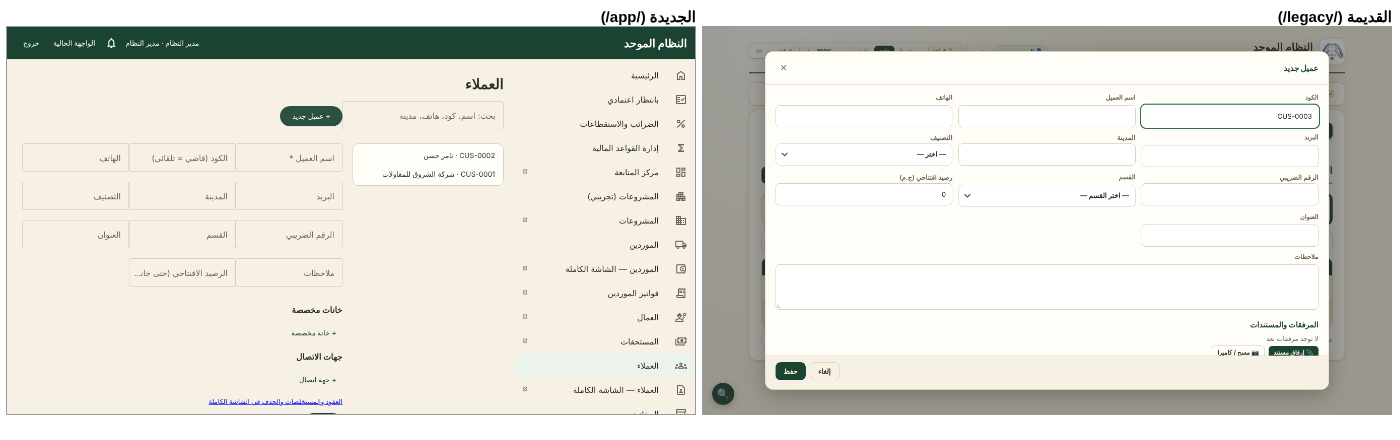
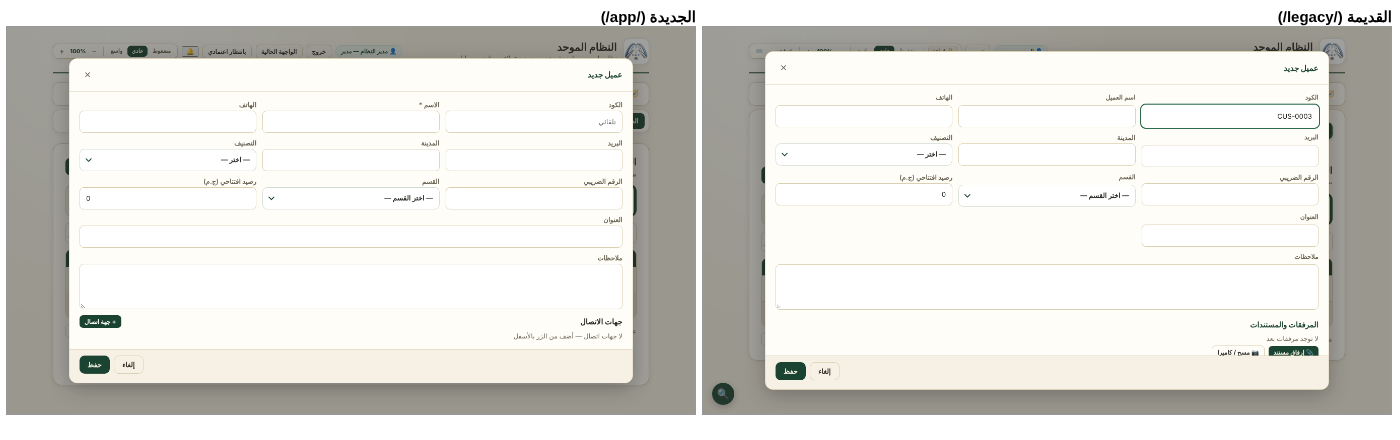
docs(phase6): DEC-0093 (a) done — visual parity results, remaining differences, visual UAT
- PARTIES_VISUAL_PARITY: V1-V12 after the change, remaining differences R1-R7 classified
- acceptance: dimension 2 Amber until the visual UAT; UAT §ز (G1-G11, incl. the write scenarios again)
- app-baseline + side-by-side shots regenerated; traceability (phase64); CI baseline requested

Claude-Session: https://claude.ai/code/session_01Pf8Qasq8ArtReZuJa3D7WX

diff --git a/docs/modules/PARTIES_VISUAL_PARITY.md b/docs/modules/PARTIES_VISUAL_PARITY.md
@@ -1,7 +1,7 @@
 # مقارنة الشكل: الواجهة القديمة ↔ الجديدة — الموردين والعملاء (خطة v1.4.5 — `04` §4.3)
 
 > **السبب:** ملاحظة المستخدم في الـ UAT (2026-11-20): «شكل الواجهة الجديدة مختلف عن القديمة». الخطة بتطلب «Angular screens with visual parity» (`02` Phase 6)، وبتقول **ماينفعش شكل Angular Material الافتراضي يحل محل الواجهة الحالية من غير موافقة** (`04` §4.2)، وكل فرق يتسجّل ويتصنّف، والفرق اللي مش متوافق عليه يتصلّح قبل القبول (`04` §4.3).
-> **المقارنة دي ماتعملتش قبل الـ UAT. ده تقصير، واتسجّل هنا.**
+> **المقارنة دي ماتعملتش قبل الـ UAT. ده تقصير، واتسجّل هنا.** **اتنفّذ (أ) تطابق كامل: §2–§4.**
 > **اللقطات:** نفس المقاس (1366×768) وبيانات مُركّبة، القديمة يمين والجديدة شمال: `docs/reports/v1.4.5/phase6-visual/` (`suppliers-list`، `suppliers-form`، `customers-list`، `customers-form`).
 
 ## 1. الفروق
@@ -35,14 +35,51 @@
 | V11 | الخطوط والألوان من نفس الرموز (`DESIGN_TOKENS.md`) | نفس الرموز (المرحلة 4) | متطابق ✅ |
 | V12 | خانة التاريخ: `mm/dd/yyyy` بأداة تقويم (حسب المتصفح) | نص `YYYY-MM-DD` (DEC-0092) | ده **خالف القديمة**. يرجع زي القديمة بالظبط |
 
-## 2. الخيارات (DEC-0093)
+## 2. القرار والتنفيذ — DEC-0093 (أ) تطابق كامل (2026-11-20)
+**الطريقة:** بدل تقليد الشكل، الشاشات الجديدة **بتلبس CSS الواجهة القديمة نفسه**:
+- `tools/ui/build-legacy-skin.js` بياخد `style.css` و`ledger.css` والـ CSS اللي `app.js` بيحقنه، ويحصرهم في `.lx-root` و`.lx` عشان مايأثروش على باقي صفحات Angular. وبيطلّع كمان أقسام التنقل من `modules.js`.
+- المخرجات مولَّدة (`frontend/src/legacy-skin.css` و`frontend/src/app/core/legacy-nav.ts`)، ومتشيّكة في الـ CI. **أي تعديل في شكل القديمة بيتنقل للجديدة بإعادة التوليد.**
+- القوالب بنفس عناصر الواجهة القديمة وكلاساتها وترتيبها (`renderSuppliersPage` و`renderInfoTab` و`openAddSupplierModal` و`renderClientsCustomersPage` و`openCustomerModal`).
+
+| # | الحالة بعد التنفيذ |
+|---|---|
+| V1 | ✅ نفس الترويسة (اللوجو، والاسم، والوصف، وشارة المستخدم، وأدوات الكثافة والتكبير، **بنفس مفاتيح التخزين**، يعني الإعداد واحد في الواجهتين) |
+| V2 | ✅ نفس صف الأقسام وصف صفحات القسم وأسمائهم وترتيبهم (من `modules.js` نفسه) |
+| V3 | ✅ نفس الكروت والخلفية والألوان |
+| V4 | ✅ نفس اللوحة (البحث، والفلترين، والعدد، و«+ إضافة مورد جديد»، والتصدير، والقايمة). **الرصيد** مكانه عدد الفواتير، والفلتر والترتيب بالرصيد معطّلين بإشارة للشاشة الكاملة (S3، قرار الرصيد المالي مفتوح) |
+| V5 | ✅ «دفتر — اختر مورداً…» |
+| V6 | ✅ نفس النافذة: عمود واحد، والهاتف والبريد والعنوان والبنك وIBAN مخفيين لحد زرار «+ إضافة خانة…»، والخانة المخصصة باسم من نافذة صغيرة. **المرفقات** بعد الإضافة من الشاشة الكاملة |
+| V7 | ✅ نفس رأس المورد والتبويبات وتبويب «البيانات». الفواتير والدفعات وكشف الحساب والتصدير بيفتحوا الشاشة الكاملة (S7) |
+| V8 | ✅ نفس العنوان والوصف والأزرار والكروت الست والفلاتر. الأعداد من السيرفر بنفس قواعد الدوال القديمة (`tests-merge/phase64.js`) |
+| V9 | ✅ نفس الجدول بالـ 12 عمود، وعمود الملاحظات (نفس `customerNotesIssues`)، والصفحات (20 صف). «عرض» و«حذف» بيفتحوا الشاشة الكاملة |
+| V10 | ✅ نفس النافذة (عمودين، والتصنيف والقسم قوايم اختيار ومعاهم «➕ قسم جديد…»، وجهات الاتصال آخر النافذة زي القديمة) |
+| V11 | ✅ |
+| V12 | ✅ رجعت `type="date"` زي القديمة |
+
+## 3. الفروق اللي فضلت (بتصنيفها)
+| # | الفرق | التصنيف |
+|---|---|---|
+| R1 | قسم الموردون بيعرض صف صفحاته، والقديمة بتعرض شريط أدوات الدفتر وزرار «◀ الموردون» (لوحات الأقسام ماتنقلتش). الأقسام اللي مافيهاش صفحة جديدة بتفتح لوحتها في القديمة | **فرق تقني مقبول** لحد نقل اللوحات |
+| R2 | الترويسة فيها «بانتظار اعتمادي» والجرس و«الواجهة الحالية»، وصفحات الضرائب والقواعد المالية في «الإعدادات» والمشروعات التجريبية في «العملاء والمشاريع» | **تحسين** (صفحات جديدة مالهاش مقابل في القديمة) |
+| R3 | مش موجود: «🔒 قراءة» و«✓ فحص» و«⌨» في الترويسة، وزرار البحث العائم 🔍 | **فرق تقني مقبول**: أدوات بتشتغل على بيانات المتصفح في القديمة |
+| R4 | رصيد المورد، وفلتره، وترتيبه | **متأجل بقرار** (S3، وقاعدة الرصيد المالية مفتوحة) |
+| R5 | كود العميل الجديد بيظهر «تلقائي» بدل الرقم الجاي، وبيتولّد عند الحفظ بنفس الصيغة | **فرق تقني مقبول** |
+| R6 | الخانات المخصصة للعميل في القديمة **معرّفة من الإعدادات** (بتظهر كلها حتى الفاضية)، وهنا بتظهر الخانات اللي ليها قيمة بس، وبتتعدّل قيمتها | **فرق مقبول مؤقتًا**. تعريف الخانات بيتنقل مع الإعدادات |
+| R7 | المرفقات، والتفاصيل، والحذف، والتصدير | **متأجل بقرار** (S6، S7، S8، C5)، وبيفتح الشاشة الكاملة |
+
+## 4. الدليل
+- **لقطات جنب بعض بعد التنفيذ:** `docs/reports/v1.4.5/phase6-visual/`.
+- **خط الأساس:** `docs/discovery/app-baseline/app/` و`app-baseline-ci/app/`.
+- **الاختبارات:** `tests-web/app-e2e.js` [6c] (الشكل والسلوك) 85/85، و`tests-merge/phase64.js` (أعداد الجدول = الدوال القديمة، 3 أوضاع).
+
+## 5. الخيارات اللي اتعرضت (DEC-0093) — للتاريخ
 | الخيار | المعنى | التقدير |
 |---|---|---|
 | **(أ) تطابق كامل** (مقترح، وده اللي الخطة طالباه) | الإطار (V1–V3) يتبني زي القديمة: الترويسة والتبويبات والكروت. والشاشتين زي القديمة بالظبط: لوحة الموردين، وجدول العملاء بالكروت والفلاتر والصفحات، والإضافة والتعديل في نوافذ منبثقة بنفس الحقول والترتيب. **العناصر المرتبطة بموديولات متأجلة** (الرصيد وفلتره، والتصدير، والحذف، وتبويبات الفواتير) **مكانها يفضل ظاهر** وبيفتح الشاشة الكاملة القديمة، لحد نقل موديولاتها. والمقارنة البصرية تبقى **قديم ↔ جديد** مش جديد ↔ جديد بس | جلستين تلاتة هنا. وبعدها UAT تاني لشكل الشاشتين بس، مش لازم بروفة نقل تاني (البيانات والـ API ماتغيّروش) |
 | (ب) تطابق الشاشتين بس، والإطار بعدين | V4–V12 دلوقتي، والإطار (V1–V3) في مرحلة لوحده قبل الموديول الجاي | أقل بجلسة، بس الإطار هيفضل مختلف لحد وقتها |
 | (ج) الشكل الجديد يتعتمد كتحسين | القبول بالشكل الحالي (موافقة صريحة على «تحسين معتمد»). **مش مقترح**: الخطة بتمنع ده من غير سبب، والمستخدمين متعودين على القديمة | — |
 
-## 3. تأثيرها على القبول
+## 6. تأثيرها على القبول (قبل التنفيذ)
 - **بُعد «تطابق الشكل والوظايف» (2) بقى Red** لحد التنفيذ (`PARTIES_ACCEPTANCE.md` §7). والـ Red بيمنع القبول.
 - **البروفة (P6-D) ناجحة ومش محتاجة تتعاد**: التغيير في الواجهة بس، والـ API والجداول والنقل زي ما هم.
 - **الـ UAT:** نتايجه الحالية بتتسجّل كما هي. وبعد التنفيذ بيتعمل **UAT للشكل** على الشاشتين (سيناريوهات مقارنة قديم ↔ جديد).

diff --git a/docs/discovery/TRACEABILITY_MATRIX.md b/docs/discovery/TRACEABILITY_MATRIX.md
@@ -1,7 +1,7 @@
 # مصفوفة التتبّع (خطة v1.4.5 — المرحلة 3)
 
 > **مولَّد** بـ `node tools/discovery/build-traceability.js` من `requirements-registry.json` + ملفات الاختبار. ماتعدّلش الملف باليد.
-> **الاختبارات** بتتلاقى بالبحث عن اسم الدالة أو الصفحة في `tests-merge/` و`tests-web/` و`tools/formulas/` و`server/test/` (97 ملف). ده **دليل إن الاختبار بيلمس العنصر**، مش إثبات إنه بيغطي كل حالاته.
+> **الاختبارات** بتتلاقى بالبحث عن اسم الدالة أو الصفحة في `tests-merge/` و`tests-web/` و`tools/formulas/` و`server/test/` (98 ملف). ده **دليل إن الاختبار بيلمس العنصر**، مش إثبات إنه بيغطي كل حالاته.
 > **الحالات** (`02` §20): Implemented ≠ Verified ≠ Accepted. **مفيش حاجة هنا Accepted**: القبول بيكون لكل موديول ببوابة.
 > **الأولويات مقترحة.**
 
@@ -139,9 +139,9 @@
 ## 5. المصفوفة الكاملة (LEG)
 | ID | النوع | الموديول | العنصر | النظام القديم | المستهدف | الاختبارات | الحالة | قرارات بتمنعه |
 |---|---|---|---|---|---|---|---|---|
-| LEG-0001 | page | مركز المتابعة | صفحة «مركز المتابعة» (dashboard) | renderer/modules/hr/pages-dashboard.js:28 | legacy /legacy/ | phase16.js، phase20.js، phase38.js، phase61.js، phase14.js، phase27.js (+1) | Verified (باختبار) | — |
+| LEG-0001 | page | مركز المتابعة | صفحة «مركز المتابعة» (dashboard) | renderer/modules/hr/pages-dashboard.js:28 | legacy /legacy/ | phase16.js، phase20.js، phase38.js، phase61.js، phase14.js، phase27.js (+2) | Verified (باختبار) | — |
 | LEG-0002 | page | مهامي | صفحة «مهامي» (tasks.my) | renderer/modules/clients/pages-tasks.js:38 | legacy /legacy/ | phase61.js | Verified (باختبار) | — |
-| LEG-0003 | page | الموارد البشرية | صفحة «لوحات الموارد البشرية» (hrHome) | renderer/core/boards.js:172 | legacy /legacy/ | phase22.js | Verified (باختبار) | DEC-0045 (B-45)، DEC-0046 (B-46)، DEC-0047 (B-47)، DEC-0073 (B-73)، DEC-0074 (B-74)، DEC-0076 (B-76)، DEC-0042 (B-42) |
+| LEG-0003 | page | الموارد البشرية | صفحة «لوحات الموارد البشرية» (hrHome) | renderer/core/boards.js:172 | legacy /legacy/ | phase22.js، app-e2e.js | Verified (باختبار) | DEC-0045 (B-45)، DEC-0046 (B-46)، DEC-0047 (B-47)، DEC-0073 (B-73)، DEC-0074 (B-74)، DEC-0076 (B-76)، DEC-0042 (B-42) |
 | LEG-0004 | page | الموارد البشرية | صفحة «الموظفين» (employees) | renderer/modules/hr/pages-employees.js:77 | legacy /legacy/ | phase22.js، phase26.js، phase27.js، phase28.js، phase29.js، phase30.js (+30) | Verified (باختبار) | DEC-0045 (B-45)، DEC-0046 (B-46)، DEC-0047 (B-47)، DEC-0073 (B-73)، DEC-0074 (B-74)، DEC-0076 (B-76)، DEC-0042 (B-42) |
 | LEG-0005 | page | الموارد البشرية | صفحة «المشرفون» (supervisors) | renderer/modules/hr/pages-supervisors.js:12 | legacy /legacy/ | phase27.js، phase42.js، phase43.js، phase49.js، phase50.js، phase53.js (+13) | Verified (باختبار) | DEC-0045 (B-45)، DEC-0046 (B-46)، DEC-0047 (B-47)، DEC-0073 (B-73)، DEC-0074 (B-74)، DEC-0076 (B-76)، DEC-0042 (B-42) |
 | LEG-0006 | page | الموارد البشرية | صفحة «العمال» (workers) | renderer/modules/hr/pages-workers.js:29 | legacy /legacy/ | phase24.js، phase26.js، phase27.js، phase28.js، phase29.js، phase30.js (+27) | Verified (باختبار) | DEC-0045 (B-45)، DEC-0046 (B-46)، DEC-0047 (B-47)، DEC-0073 (B-73)، DEC-0074 (B-74)، DEC-0076 (B-76)، DEC-0042 (B-42) |
@@ -152,7 +152,7 @@
 | LEG-0011 | page | الموارد البشرية | صفحة «الإجازات» (leaves) | renderer/modules/hr/pages-leaves.js:48 | legacy /legacy/ | phase41.js، phase13.js، phase30.js، phase31.js، phase33.js، phase36.js (+5) | Verified (باختبار) | DEC-0045 (B-45)، DEC-0046 (B-46)، DEC-0047 (B-47)، DEC-0073 (B-73)، DEC-0074 (B-74)، DEC-0076 (B-76)، DEC-0042 (B-42) |
 | LEG-0012 | page | الموارد البشرية | صفحة «تقييم الأداء» (performance) | renderer/modules/hr/pages-ops.js:540 | legacy /legacy/ | phase61.js | Verified (باختبار) | DEC-0045 (B-45)، DEC-0046 (B-46)، DEC-0047 (B-47)، DEC-0073 (B-73)، DEC-0074 (B-74)، DEC-0076 (B-76)، DEC-0042 (B-42) |
 | LEG-0013 | page | العملاء والمشاريع | صفحة «العملاء» (clients.customers) | renderer/modules/clients/pages-customers.js:14 | angular /customers | phase2.js، phase5.js، phase7.js، phase15.js، phase19.js، phase46.js (+7) | Implemented (اتنقل) | DEC-0029 (B-29)، DEC-0035 (B-35) |
-| LEG-0014 | page | العملاء والمشاريع | صفحة «المشاريع» (projects) | renderer/modules/hr/pages-projects.js:60 | angular /projects | phase2.js، phase3.js، phase4.js، phase15.js، phase17.js، phase18.js (+40) | Implemented (اتنقل) | DEC-0029 (B-29)، DEC-0035 (B-35) |
+| LEG-0014 | page | العملاء والمشاريع | صفحة «المشاريع» (projects) | renderer/modules/hr/pages-projects.js:60 | angular /projects | phase2.js، phase3.js، phase4.js، phase15.js، phase17.js، phase18.js (+41) | Implemented (اتنقل) | DEC-0029 (B-29)، DEC-0035 (B-35) |
 | LEG-0015 | page | العملاء والمشاريع | صفحة «أعمال الحصر» (clients.workSurveys) | renderer/modules/clients/pages-work-surveys.js:74 | legacy /legacy/ | phase9.js | Verified (باختبار) | DEC-0029 (B-29)، DEC-0035 (B-35) |
 | LEG-0016 | page | العملاء والمشاريع | صفحة «المقايسات» (clients.boqs) | renderer/modules/clients/pages-boqs.js:45 | legacy /legacy/ | phase2.js، phase9.js | Verified (باختبار) | DEC-0029 (B-29)، DEC-0035 (B-35) |
 | LEG-0017 | page | العملاء والمشاريع | صفحة «العقود» (clients.contracts) | renderer/modules/clients/pages-contracts.js:28 | legacy /legacy/ | phase5.js، phase7.js، phase12.js، phase14.js، phase15.js، data.e2e-spec.ts | Verified (باختبار) | DEC-0029 (B-29)، DEC-0035 (B-35) |
@@ -181,7 +181,7 @@
 | LEG-0040 | page | الأرشيف | صفحة «أرشيف الموردين» (ledger.archive) | renderer/modules/ledger/pages-archive.js:215 | legacy /legacy/ | phase61.js | Verified (باختبار) | DEC-0061 (B-61) |
 | LEG-0041 | page | الأرشيف | صفحة «أرشيف العملاء والمشاريع» (clients.archive) | renderer/modules/clients/pages-archive.js:36 | legacy /legacy/ | phase8.js | Verified (باختبار) | DEC-0061 (B-61) |
 | LEG-0042 | page | الإعدادات | صفحة «الإعدادات العامة» (backup) | renderer/core/pages-backup.js:5 | legacy /legacy/ | phase10.js، phase29.js، phase32.js، phase34.js، phase35.js، phase36.js (+3) | Verified (باختبار) | DEC-0035 (B-35) |
-| LEG-0043 | page | الإعدادات | صفحة «المستخدمون» (users) | renderer/core/pages-users.js:16 | legacy /legacy/ | phase61.js، pages-smoke.js، phase10.js، phase11.js، phase12.js، phase13.js (+71) | Verified (باختبار) | DEC-0035 (B-35) |
+| LEG-0043 | page | الإعدادات | صفحة «المستخدمون» (users) | renderer/core/pages-users.js:16 | legacy /legacy/ | phase61.js، pages-smoke.js، phase10.js، phase11.js، phase12.js، phase13.js (+72) | Verified (باختبار) | DEC-0035 (B-35) |
 | LEG-0044 | page | الإعدادات | صفحة «الاقتراحات» (ledger.categories) | renderer/modules/ledger/pages-categories.js:4 | legacy /legacy/ | phase61.js | Verified (باختبار) | DEC-0035 (B-35) |
 | LEG-0045 | page | (خارج القايمة) | صفحة «clients.dashboard» (clients.dashboard) — اسم بديل لـ dashboard | renderer/modules/hr/pages-dashboard.js:28 | legacy /legacy/ | phase20.js | Verified (باختبار) | — |
 | LEG-0046 | page | (خارج القايمة) | صفحة «fuel» (fuel) — اسم بديل لـ equipment | renderer/modules/hr/pages-equipment.js:32 | legacy /legacy/ | phase61.js، phase18.js، phase26.js، legacy-runner.js، reference.js | Verified (باختبار) | — |

diff --git a/docs/modules/PARTIES_FIELD_PARITY.md b/docs/modules/PARTIES_FIELD_PARITY.md
@@ -38,14 +38,14 @@
 | الحقل القديم | النوع (من البيانات الحقيقية) | مكانه في القاعدة | في الشاشة الجديدة |
 |---|---|---|---|
 | `address` | string | عمود `address` | ✅ |
-| `boqs` | array | `legacy_extra` (مصفوفة بتخص موديول تاني — بتتنقل معاه) | — |
+| `boqs` | array | `legacy_extra` (مصفوفة بتخص موديول تاني — بتتنقل معاه) | ✅ |
 | `category` | string | عمود `category` | ✅ |
 | `city` | string | عمود `city` | ✅ |
 | `code` | string | عمود `code` | ✅ |
 | `collections` | array | `legacy_extra` (مصفوفة بتخص موديول تاني — بتتنقل معاه) | — |
 | `comms` | array | `legacy_extra` (مصفوفة بتخص موديول تاني — بتتنقل معاه) | — |
 | `contacts` | array | جدول `customer_contacts` (صف لكل جهة اتصال) | ✅ |
-| `contracts` | array | `legacy_extra` (مصفوفة بتخص موديول تاني — بتتنقل معاه) | — |
+| `contracts` | array | `legacy_extra` (مصفوفة بتخص موديول تاني — بتتنقل معاه) | ✅ |
 | `createdAt` | string | `created_at` | — |
 | `department` | string | عمود `department` | ✅ |
 | `docs` | array | `legacy_extra` (مصفوفة بتخص موديول تاني — بتتنقل معاه) | — |
@@ -53,18 +53,18 @@
 | `extraFields` | array | عمود `extra_fields` | ✅ |
 | `guarantees` | array | `legacy_extra` (مصفوفة بتخص موديول تاني — بتتنقل معاه) | — |
 | `id` | string | المفتاح الأساسي `id` | ✅ |
-| `invoices` | array | `legacy_extra` (مصفوفة بتخص موديول تاني — بتتنقل معاه) | — |
+| `invoices` | array | `legacy_extra` (مصفوفة بتخص موديول تاني — بتتنقل معاه) | ✅ |
 | `ledger` | array | `legacy_extra` (مصفوفة بتخص موديول تاني — بتتنقل معاه) | — |
 | `name` | string | عمود `name` | ✅ |
 | `notes` | string | عمود `notes` | ✅ |
 | `openingBalance` | number | عمود `opening_balance` | ✅ |
 | `opportunities` | array | `legacy_extra` (مصفوفة بتخص موديول تاني — بتتنقل معاه) | — |
 | `phone` | string | عمود `phone` | ✅ |
-| `projects` | array | `legacy_extra` (مصفوفة بتخص موديول تاني — بتتنقل معاه) | — |
+| `projects` | array | `legacy_extra` (مصفوفة بتخص موديول تاني — بتتنقل معاه) | ✅ |
 | `status` | string (active) | عمود `status` | ✅ |
 | `taxId` | string | عمود `tax_id` | ✅ |
 | `updatedAt` | string | `updated_at` | — |
-| `workSurveys` | array | `legacy_extra` (مصفوفة بتخص موديول تاني — بتتنقل معاه) | — |
+| `workSurveys` | array | `legacy_extra` (مصفوفة بتخص موديول تاني — بتتنقل معاه) | ✅ |
 
 ## الخلاصة (P6-B)
 - **كل حقل ليه مكان**: عمود، أو جدول تابع، أو `legacy_extra`. ومفيش حقل بيضيع، لأن أمر الكتابة في الجداول بيحط أي مفتاح مش معروف في `legacy_extra` (`p - ARRAY[...]`)، واختبار التكافؤ في أمر النقل بيقارن كل سجل بعد النقل (`cutover … dry-run`).

diff --git a/docs/modules/PARTIES_UAT.md b/docs/modules/PARTIES_UAT.md
@@ -54,3 +54,20 @@
 - **النتيجة حسب المنفّذ:** «السيناريوهات شغالة» — **كل السيناريوهات نجحت**، من غير نتيجة مسجّلة لكل سيناريو.
 - **ملاحظة المنفّذ:** **شكل الواجهة الجديدة مختلف عن القديمة** ← اتسجّلت عيب (`PARTIES_VISUAL_PARITY.md`)، وقرارها **DEC-0093 (أ) تطابق كامل**.
 - **ملاحظة من تقرير البروفة:** البصمات ماتغيّرتش أثناء الـ UAT (`R1c = R1b`)، يعني سيناريوهات الإضافة والتعديل (U4، U6، U7، U7b، U9، U10، U13، U14) **مااتحفظش منها حاجة** على البيئة دي. فبتتعاد مع **UAT الشكل** بعد تنفيذ DEC-0093، **بنتيجة لكل سيناريو**.
+
+## ز. UAT الشكل والإعادة (بعد DEC-0093 أ)
+> على نفس البيئة المعزولة بعد النقل (الدليل §4)، **بعد** تحديث الكود وإعادة بناء صورة السيرفر. افتح الشاشة القديمة والجديدة **جنب بعض** (`/legacy/#ledger.suppliers` و`/app/suppliers`). **سجّل نتيجة لكل سيناريو.**
+
+| # | السيناريو | النتيجة المتوقعة | النتيجة | ملاحظات |
+|---|---|---|---|---|
+| G1 | الترويسة والأقسام | نفس اللوجو والاسم والأقسام وترتيبها، والكثافة والتكبير بيتغيّروا في الاتنين مع بعض | | |
+| G2 | قايمة الموردين | نفس اللوحة على اليمين ونفس الترتيب. مكان الرصيد بيظهر عدد الفواتير (الرصيد في الشاشة الكاملة) | | |
+| G3 | فتح مورد | نفس رأس المورد والتبويبات ونموذج «البيانات» بنفس ترتيب الخانات | | |
+| G4 | إضافة مورد (U4 تاني) | نفس النافذة. الهاتف والبريد بيظهروا بزرار «+ إضافة خانة…». بعد الإضافة المورد بيتفتح، وبيظهر في القديمة | | |
+| G5 | تعديل مورد وخانة مخصصة (U6 + U7b) | «حفظ البيانات» ← رسالة «تم حفظ البيانات»، والتعديل ظاهر في القديمة | | |
+| G6 | مورد رقمه الضريبي «_» (U7) | تعديل الهاتف بيتحفظ عادي | | |
+| G7 | جدول العملاء | نفس الكروت والفلاتر والأعمدة، والأرقام نفس القديمة لنفس العميل (مشاريع، وعقود، ومستخلصات، وحصر، ومقايسات، وملاحظات) | | |
+| G8 | إضافة عميل (U9 + U10) | نفس النافذة. الكود بيتولّد بنفس الصيغة، وجهة الاتصال ظاهرة في القديمة | | |
+| G9 | كود مكرر (U11) | رسالة خطأ ومفيش حفظ | | |
+| G10 | من القديمة (U13 + U14) | إضافة مورد بخانة مخصصة، وتعديل اسم عميل مربوط بمشروع: الاتنين ظاهرين في الجديدة | | |
+| G11 | الشكل في المجمل | **مفيش فرق في الشكل** غير المسجّل في `PARTIES_VISUAL_PARITY.md` §3 | | |

diff --git a/docs/modules/PARTIES_ACCEPTANCE.md b/docs/modules/PARTIES_ACCEPTANCE.md
@@ -69,7 +69,7 @@
 | # | البُعد | الحالة | الدليل / الناقص |
 |---|---|---|---|
 | 1 | تتبّع المتطلبات والقديم | **Green** | §2: كل وظيفة (S1–S8، C1–C5) ليها `LEG-` وحالة، والمتأجل بقرار. `TRACEABILITY_MATRIX.md` |
-| 2 | تطابق الشكل والوظايف | **Red** | **الشكل مختلف عن القديمة** (ملاحظة المستخدم في الـ UAT): الإطار، وترتيب الشاشتين، والنوافذ المنبثقة، وجدول العملاء. المقارنة قديم ↔ جديد ماتعملتش قبل الـ UAT. التفاصيل والخيارات: `PARTIES_VISUAL_PARITY.md` (**DEC-0093**). الحقول: 0 ضايع و0 ناقص |
+| 2 | تطابق الشكل والوظايف | **Amber** | DEC-0093 (أ) **اتنفّذ**: الشاشتين والإطار بـ CSS الواجهة القديمة نفسه (`PARTIES_VISUAL_PARITY.md` §2–§4). الفروق اللي فضلت مصنّفة (§3 هناك). **الناقص: UAT الشكل** (`PARTIES_UAT.md` §ز) |
 | 3 | نموذج البيانات ومطابقة النقل | **Amber** | تكافؤ لكل سجل جوه الأمر، وأمر `reconcile` (أعداد + بصمات) مختبر قبل/بعد/رجوع (`cutover.e2e-spec.ts`). تجربة سابقة على نسخة حقيقية: 0 فرق. **الناقص: البروفة المتكررة بالمطابقة (الدليل §1–§8)** |
 | 4 | الصلاحيات والتدقيق | **Green** | الصلاحيات من صفحة الواجهة القديمة (عرض بس / تعديل)، والرصيد محمي (`field-guards`)، و`audit_log` لكل كتابة وللنقل والرجوع، و`changes` للبث (`parties.e2e-spec.ts`، `cutover.e2e-spec.ts`) |
 | 5 | سير العمل ودورة الحياة | **Green** | بيانات أساسية من غير اعتمادات. الحذف (سلة الأرشيف) متأجل وشغال في القديمة. حالة العميل: نفس DEC-0091 |
@@ -81,4 +81,4 @@
 | 11 | قبول المستخدم والتدريب | **Not assessed** | `PARTIES_UAT.md` جاهز (17 سيناريو)، ومستني التنفيذ. التدريب: المستخدم الوحيد حاليًا مدير النظام |
 | 12 | العيوب والقرارات المفتوحة | **Green** | DEC-0091 وDEC-0092 اتقفلوا بـ (أ). **0 عيوب مفتوحة**. هتتحدّث بنتايج الـ UAT |
 
-**الخلاصة (اتحدّثت بعد الـ UAT):** **بُعد 2 Red** (الشكل، DEC-0093)، وده بيمنع القبول لحد التنفيذ. ومفيش فشل P0. الـ Amber في 3 و9 و10 بيتقفل بالبروفة، و11 بالـ UAT، و8 متأجل بقرار. (2 و12 بقوا Green بعد تنفيذ DEC-0091 وDEC-0092.)
+**الخلاصة (اتحدّثت بعد تنفيذ DEC-0093):** مفيش Red، ومفيش فشل P0. بُعد 2 بيبقى Green بعد UAT الشكل. الـ Amber في 3 و9 و10 بيتقفل بالبروفة، و11 بالـ UAT، و8 متأجل بقرار. (2 و12 بقوا Green بعد تنفيذ DEC-0091 وDEC-0092.)

diff --git a/docs/discovery/README.md b/docs/discovery/README.md
@@ -10,6 +10,7 @@
 | `visual-baseline/` | لقطات: 54 صفحة ديسكتوب (1366×768)، و44 موبايل (390×844)، و53 نافذة | `discover-pages.js` |
 | `visual-baseline-ci/` | نفس اللقطات **على أجهزة GitHub** (خطوط مختلفة)، والـ CI بيقارن بيها إلزاميًا (DEC-0089). بتتولّد بتعديل `visual-baseline-ci/REQUEST` + push | `.github/workflows/visual-baseline-ci.yml` |
 | `app-baseline/` + `app-baseline-ci/` | لقطات الواجهة الجديدة `/app/` (10: الصفحات، ونماذج تعديل وإضافة الموردين والعملاء) على بيانات مُركّبة — المرحلة 6، البند 6.4. المقارنة: `visual-compare.js --app` (بيئة التطوير) و`--app --baseline docs/discovery/app-baseline-ci` (الـ CI) | `capture-app.js` (ونسخة الـ CI بنفس الـ workflow) |
+| `frontend/src/legacy-skin.css` + `frontend/src/app/core/legacy-nav.ts` | CSS الواجهة القديمة محصور في `.lx` وأقسام التنقل، للشاشات المطابقة في `/app/` (DEC-0093). الفحص: `node tools/ui/build-legacy-skin.js --check` | `tools/ui/build-legacy-skin.js` |
 | `DESIGN_TOKENS.md` + `tokens.json` | الألوان والخطوط والمقاسات والحواف والظلال والشكل المحسوب | `extract-design-tokens.js` |
 | `DATA_DICTIONARY.md` | مسارات DATA، والترحيلات، والحقول، وجداول السيرفر | `build-data-dictionary.js` |
 | `FORMULA_CATALOGUE.md` | المعادلات الـ 71 ودوالها وقواعدها ومكتبة B-20 | `build-formula-catalogue.js` |
